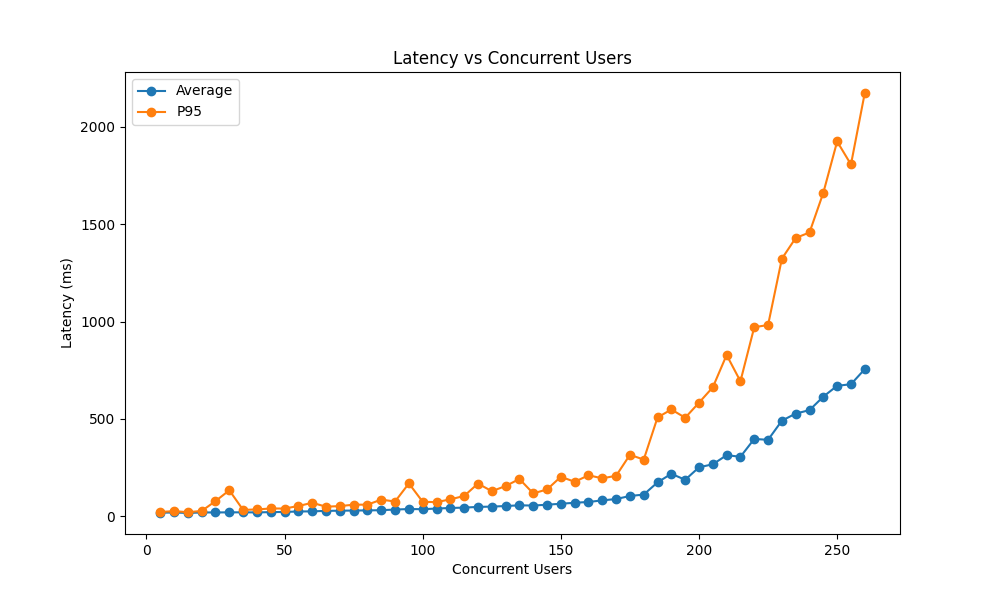
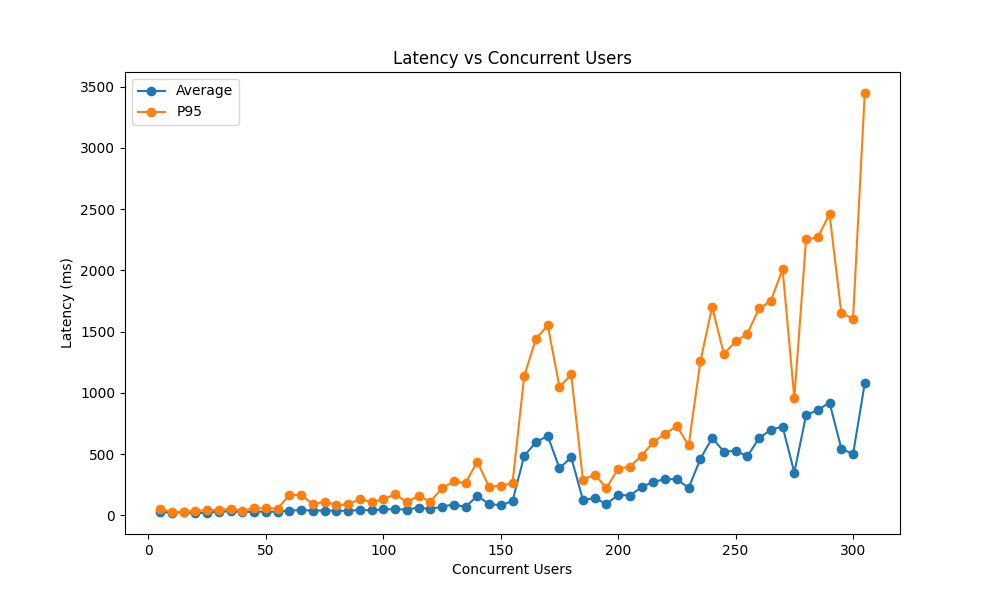
feat: add degradation check and Updated benchmark results

diff --git a/benchmark/load_test.py b/benchmark/load_test.py
@@ -30,6 +30,9 @@ class LoadTestConfig:
     request_timeout: int = 5
     think_time_min: float = 0.1
     think_time_max: float = 1.0
+    enable_degradation_check: bool = True
+    max_error_rate: float = 10.0  # Maximum acceptable error rate (%)
+    max_p95_latency: float = 2000.0  # Maximum acceptable P95 latency (ms)
 
 
 class EnhancedLoadTester:
@@ -168,10 +171,17 @@ class EnhancedLoadTester:
             # Print interim results
             self._print_step_results(step_metrics, num_users)
 
-            # Check for degradation
-            if step_metrics["error_rate"] > 10 or step_metrics["p95_latency"] > 2000:
-                print("\nPerformance degradation detected. Stopping test.")
-                break
+            # Check for degradation only if enabled
+            if self.config.enable_degradation_check:
+                if (step_metrics["error_rate"] > self.config.max_error_rate or
+                    step_metrics["p95_latency"] > self.config.max_p95_latency):
+                    print("\nPerformance degradation detected:")
+                    if step_metrics["error_rate"] > self.config.max_error_rate:
+                        print(f"- Error rate ({step_metrics['error_rate']:.2f}%) exceeded threshold of {self.config.max_error_rate}%")
+                    if step_metrics["p95_latency"] > self.config.max_p95_latency:
+                        print(f"- P95 latency ({step_metrics['p95_latency']:.2f}ms) exceeded threshold of {self.config.max_p95_latency}ms")
+                    print("Stopping test.")
+                    break
 
             # Cool down period
             await asyncio.sleep(5)

diff --git a/benchmark/main.py b/benchmark/main.py
@@ -17,7 +17,10 @@ async def main():
         step_duration=30,
         request_timeout=10,
         think_time_min=0.5,
-        think_time_max=2.0
+        think_time_max=2.0,
+        enable_degradation_check=True,
+        max_error_rate=15.0,
+        max_p95_latency=3000.0
     )
 
     print(f"Starting load test at {datetime.now()}")

diff --git a/benchmark_results/load_test_report.md b/benchmark_results/load_test_report.md
@@ -1,6 +1,6 @@
 # Load Test Report
 
-Test conducted at: 2024-11-24T15:40:30.748891
+Test conducted at: 2024-11-28T18:14:20.789151
 
 ## Test Configuration
 - initial_users: 5
@@ -12,119 +12,140 @@ Test conducted at: 2024-11-24T15:40:30.748891
 - request_timeout: 10
 - think_time_min: 0.5
 - think_time_max: 2.0
+- enable_degradation_check: True
+- max_error_rate: 15.0
+- max_p95_latency: 3000.0
 
 ## Summary Results
 ```
 +----+--------------------+------------------+----------------+--------------+---------------+---------------+---------------+--------------+
 |    |   concurrent_users |   total_requests |   success_rate |   error_rate |   avg_latency |   p50_latency |   p95_latency |   throughput |
 +====+====================+==================+================+==============+===============+===============+===============+==============+
-|  0 |               5.00 |           100.00 |         100.00 |         0.00 |         18.56 |         11.71 |         22.48 |         3.64 |
+|  0 |               5.00 |           100.00 |         100.00 |         0.00 |         29.13 |         15.73 |         54.25 |         3.69 |
 +----+--------------------+------------------+----------------+--------------+---------------+---------------+---------------+--------------+
-|  1 |              10.00 |           200.00 |         100.00 |         0.00 |         20.04 |         11.10 |         26.81 |         7.32 |
+|  1 |              10.00 |           200.00 |         100.00 |         0.00 |         21.35 |         15.58 |         28.89 |         7.02 |
 +----+--------------------+------------------+----------------+--------------+---------------+---------------+---------------+--------------+
-|  2 |              15.00 |           300.00 |         100.00 |         0.00 |         17.23 |         10.69 |         21.41 |        11.64 |
+|  2 |              15.00 |           300.00 |         100.00 |         0.00 |         27.24 |         14.81 |         28.36 |        11.16 |
 +----+--------------------+------------------+----------------+--------------+---------------+---------------+---------------+--------------+
-|  3 |              20.00 |           400.00 |         100.00 |         0.00 |         20.12 |         11.10 |         27.76 |        14.09 |
+|  3 |              20.00 |           400.00 |         100.00 |         0.00 |         19.75 |         13.95 |         38.59 |        14.47 |
 +----+--------------------+------------------+----------------+--------------+---------------+---------------+---------------+--------------+
-|  4 |              25.00 |           500.00 |         100.00 |         0.00 |         20.03 |         11.95 |         78.19 |        17.26 |
+|  4 |              25.00 |           500.00 |         100.00 |         0.00 |         21.65 |         14.88 |         41.86 |        18.08 |
 +----+--------------------+------------------+----------------+--------------+---------------+---------------+---------------+--------------+
-|  5 |              30.00 |           599.00 |         100.00 |         0.00 |         20.62 |         10.98 |        133.83 |        20.41 |
+|  5 |              30.00 |           600.00 |         100.00 |         0.00 |         30.36 |         14.62 |         46.33 |        20.92 |
 +----+--------------------+------------------+----------------+--------------+---------------+---------------+---------------+--------------+
-|  6 |              35.00 |           700.00 |         100.00 |         0.00 |         20.67 |         11.38 |         33.12 |        26.37 |
+|  6 |              35.00 |           700.00 |         100.00 |         0.00 |         33.02 |         17.32 |         53.00 |        23.36 |
 +----+--------------------+------------------+----------------+--------------+---------------+---------------+---------------+--------------+
-|  7 |              40.00 |           800.00 |         100.00 |         0.00 |         20.29 |         11.46 |         35.56 |        29.68 |
+|  7 |              40.00 |           800.00 |         100.00 |         0.00 |         26.86 |         15.74 |         39.67 |        27.78 |
 +----+--------------------+------------------+----------------+--------------+---------------+---------------+---------------+--------------+
-|  8 |              45.00 |           900.00 |         100.00 |         0.00 |         21.72 |         11.85 |         40.39 |        32.24 |
+|  8 |              45.00 |           900.00 |         100.00 |         0.00 |         31.43 |         17.12 |         57.46 |        30.30 |
 +----+--------------------+------------------+----------------+--------------+---------------+---------------+---------------+--------------+
-|  9 |              50.00 |          1000.00 |         100.00 |         0.00 |         22.60 |         11.96 |         40.19 |        34.79 |
+|  9 |              50.00 |          1000.00 |         100.00 |         0.00 |         30.43 |         16.58 |         58.06 |        35.65 |
 +----+--------------------+------------------+----------------+--------------+---------------+---------------+---------------+--------------+
-| 10 |              55.00 |          1100.00 |         100.00 |         0.00 |         25.10 |         12.31 |         53.07 |        38.55 |
+| 10 |              55.00 |          1100.00 |         100.00 |         0.00 |         29.12 |         17.04 |         55.51 |        38.95 |
 +----+--------------------+------------------+----------------+--------------+---------------+---------------+---------------+--------------+
-| 11 |              60.00 |          1200.00 |         100.00 |         0.00 |         25.55 |         12.59 |         69.50 |        44.17 |
+| 11 |              60.00 |          1200.00 |         100.00 |         0.00 |         39.95 |         19.48 |        166.40 |        41.74 |
 +----+--------------------+------------------+----------------+--------------+---------------+---------------+---------------+--------------+
-| 12 |              65.00 |          1300.00 |         100.00 |         0.00 |         28.27 |         12.77 |         49.76 |        45.54 |
+| 12 |              65.00 |          1300.00 |         100.00 |         0.00 |         43.27 |         23.68 |        166.16 |        46.36 |
 +----+--------------------+------------------+----------------+--------------+---------------+---------------+---------------+--------------+
-| 13 |              70.00 |          1400.00 |         100.00 |         0.00 |         28.92 |         13.41 |         52.63 |        50.49 |
+| 13 |              70.00 |          1400.00 |         100.00 |         0.00 |         39.33 |         22.12 |         93.21 |        48.00 |
 +----+--------------------+------------------+----------------+--------------+---------------+---------------+---------------+--------------+
-| 14 |              75.00 |          1500.00 |         100.00 |         0.00 |         29.93 |         14.00 |         59.97 |        52.20 |
+| 14 |              75.00 |          1500.00 |         100.00 |         0.00 |         39.84 |         22.31 |        111.66 |        53.05 |
 +----+--------------------+------------------+----------------+--------------+---------------+---------------+---------------+--------------+
-| 15 |              80.00 |          1600.00 |         100.00 |         0.00 |         30.53 |         14.51 |         60.07 |        55.45 |
+| 15 |              80.00 |          1600.00 |         100.00 |         0.00 |         39.73 |         22.26 |         83.69 |        56.85 |
 +----+--------------------+------------------+----------------+--------------+---------------+---------------+---------------+--------------+
-| 16 |              85.00 |          1700.00 |         100.00 |         0.00 |         31.67 |         15.07 |         85.82 |        59.75 |
+| 16 |              85.00 |          1700.00 |         100.00 |         0.00 |         36.64 |         19.86 |         89.69 |        57.99 |
 +----+--------------------+------------------+----------------+--------------+---------------+---------------+---------------+--------------+
-| 17 |              90.00 |          1800.00 |         100.00 |         0.00 |         34.93 |         16.05 |         76.20 |        61.73 |
+| 17 |              90.00 |          1800.00 |         100.00 |         0.00 |         44.39 |         24.72 |        134.29 |        61.72 |
 +----+--------------------+------------------+----------------+--------------+---------------+---------------+---------------+--------------+
-| 18 |              95.00 |          1900.00 |         100.00 |         0.00 |         37.63 |         16.04 |        169.08 |        64.32 |
+| 18 |              95.00 |          1900.00 |         100.00 |         0.00 |         41.23 |         22.22 |        108.58 |        64.62 |
 +----+--------------------+------------------+----------------+--------------+---------------+---------------+---------------+--------------+
-| 19 |             100.00 |          2000.00 |         100.00 |         0.00 |         36.76 |         17.32 |         74.75 |        67.39 |
+| 19 |             100.00 |          1999.00 |         100.00 |         0.00 |         49.62 |         27.36 |        131.99 |        67.53 |
 +----+--------------------+------------------+----------------+--------------+---------------+---------------+---------------+--------------+
-| 20 |             105.00 |          2100.00 |         100.00 |         0.00 |         40.10 |         17.95 |         72.94 |        72.87 |
+| 20 |             105.00 |          2100.00 |         100.00 |         0.00 |         50.78 |         27.35 |        172.54 |        71.19 |
 +----+--------------------+------------------+----------------+--------------+---------------+---------------+---------------+--------------+
-| 21 |             110.00 |          2200.00 |         100.00 |         0.00 |         42.99 |         19.78 |         87.38 |        74.32 |
+| 21 |             110.00 |          2198.00 |         100.00 |         0.00 |         47.24 |         24.85 |        109.87 |        73.60 |
 +----+--------------------+------------------+----------------+--------------+---------------+---------------+---------------+--------------+
-| 22 |             115.00 |          2300.00 |         100.00 |         0.00 |         44.94 |         19.87 |        104.66 |        77.06 |
+| 22 |             115.00 |          2299.00 |         100.00 |         0.00 |         64.10 |         31.66 |        159.37 |        79.57 |
 +----+--------------------+------------------+----------------+--------------+---------------+---------------+---------------+--------------+
-| 23 |             120.00 |          2400.00 |         100.00 |         0.00 |         48.48 |         21.00 |        168.17 |        85.56 |
+| 23 |             120.00 |          2400.00 |         100.00 |         0.00 |         51.73 |         28.66 |        113.46 |        81.46 |
 +----+--------------------+------------------+----------------+--------------+---------------+---------------+---------------+--------------+
-| 24 |             125.00 |          2500.00 |         100.00 |         0.00 |         50.10 |         22.09 |        129.39 |        86.95 |
+| 24 |             125.00 |          2499.00 |         100.00 |         0.00 |         72.48 |         37.72 |        221.42 |        84.47 |
 +----+--------------------+------------------+----------------+--------------+---------------+---------------+---------------+--------------+
-| 25 |             130.00 |          2600.00 |         100.00 |         0.00 |         53.01 |         23.51 |        155.43 |        86.81 |
+| 25 |             130.00 |          2600.00 |         100.00 |         0.00 |         89.00 |         47.79 |        278.07 |        89.62 |
 +----+--------------------+------------------+----------------+--------------+---------------+---------------+---------------+--------------+
-| 26 |             135.00 |          2699.00 |         100.00 |         0.00 |         56.72 |         25.35 |        191.94 |        91.05 |
+| 26 |             135.00 |          2698.00 |         100.00 |         0.00 |         70.06 |         34.62 |        265.38 |        91.84 |
 +----+--------------------+------------------+----------------+--------------+---------------+---------------+---------------+--------------+
-| 27 |             140.00 |          2800.00 |         100.00 |         0.00 |         55.48 |         29.00 |        117.86 |        94.76 |
+| 27 |             140.00 |          2797.00 |         100.00 |         0.00 |        159.18 |        114.67 |        437.28 |        93.33 |
 +----+--------------------+------------------+----------------+--------------+---------------+---------------+---------------+--------------+
-| 28 |             145.00 |          2900.00 |         100.00 |         0.00 |         59.86 |         30.60 |        138.13 |        98.25 |
+| 28 |             145.00 |          2897.00 |         100.00 |         0.00 |         93.62 |         57.74 |        234.97 |        97.16 |
 +----+--------------------+------------------+----------------+--------------+---------------+---------------+---------------+--------------+
-| 29 |             150.00 |          3000.00 |         100.00 |         0.00 |         64.78 |         31.11 |        203.20 |       100.31 |
+| 29 |             150.00 |          3000.00 |         100.00 |         0.00 |         82.60 |         48.61 |        240.27 |       103.21 |
 +----+--------------------+------------------+----------------+--------------+---------------+---------------+---------------+--------------+
-| 30 |             155.00 |          3100.00 |         100.00 |         0.00 |         69.75 |         34.47 |        177.43 |       103.33 |
+| 30 |             155.00 |          3097.00 |         100.00 |         0.00 |        117.19 |         87.42 |        263.79 |       104.24 |
 +----+--------------------+------------------+----------------+--------------+---------------+---------------+---------------+--------------+
-| 31 |             160.00 |          3200.00 |         100.00 |         0.00 |         73.92 |         39.61 |        210.74 |       109.33 |
+| 31 |             160.00 |          2816.00 |         100.00 |         0.00 |        485.97 |        386.61 |       1137.51 |        93.36 |
 +----+--------------------+------------------+----------------+--------------+---------------+---------------+---------------+--------------+
-| 32 |             165.00 |          3299.00 |         100.00 |         0.00 |         82.01 |         44.42 |        195.39 |       110.64 |
+| 32 |             165.00 |          2755.00 |         100.00 |         0.00 |        598.51 |        500.36 |       1442.30 |        89.75 |
 +----+--------------------+------------------+----------------+--------------+---------------+---------------+---------------+--------------+
-| 33 |             170.00 |          3400.00 |         100.00 |         0.00 |         89.03 |         48.23 |        208.19 |       114.53 |
+| 33 |             170.00 |          2776.00 |         100.00 |         0.00 |        648.18 |        536.61 |       1550.48 |        90.98 |
 +----+--------------------+------------------+----------------+--------------+---------------+---------------+---------------+--------------+
-| 34 |             175.00 |          3499.00 |         100.00 |         0.00 |        104.53 |         64.05 |        316.01 |       116.85 |
+| 34 |             175.00 |          3289.00 |         100.00 |         0.00 |        384.52 |        324.61 |       1048.55 |       109.12 |
 +----+--------------------+------------------+----------------+--------------+---------------+---------------+---------------+--------------+
-| 35 |             180.00 |          3600.00 |         100.00 |         0.00 |        111.91 |         72.73 |        291.56 |       120.86 |
+| 35 |             180.00 |          3226.00 |         100.00 |         0.00 |        474.37 |        379.89 |       1150.32 |       106.23 |
 +----+--------------------+------------------+----------------+--------------+---------------+---------------+---------------+--------------+
-| 36 |             185.00 |          3687.00 |         100.00 |         0.00 |        174.55 |        135.07 |        507.97 |       122.82 |
+| 36 |             185.00 |          3696.00 |         100.00 |         0.00 |        126.37 |         99.68 |        289.16 |       123.45 |
 +----+--------------------+------------------+----------------+--------------+---------------+---------------+---------------+--------------+
-| 37 |             190.00 |          3761.00 |         100.00 |         0.00 |        218.65 |        190.19 |        548.64 |       125.42 |
+| 37 |             190.00 |          3798.00 |         100.00 |         0.00 |        141.49 |        123.82 |        333.45 |       127.24 |
 +----+--------------------+------------------+----------------+--------------+---------------+---------------+---------------+--------------+
-| 38 |             195.00 |          3878.00 |         100.00 |         0.00 |        187.56 |        160.79 |        506.31 |       129.63 |
+| 38 |             195.00 |          3898.00 |         100.00 |         0.00 |         93.41 |         61.69 |        223.99 |       132.48 |
 +----+--------------------+------------------+----------------+--------------+---------------+---------------+---------------+--------------+
-| 39 |             200.00 |          3941.00 |         100.00 |         0.00 |        251.95 |        210.82 |        583.57 |       131.32 |
+| 39 |             200.00 |          3989.00 |         100.00 |         0.00 |        167.54 |        154.53 |        381.60 |       132.92 |
 +----+--------------------+------------------+----------------+--------------+---------------+---------------+---------------+--------------+
-| 40 |             205.00 |          4011.00 |         100.00 |         0.00 |        267.27 |        213.38 |        662.74 |       133.68 |
+| 40 |             205.00 |          4089.00 |         100.00 |         0.00 |        162.33 |        149.91 |        398.69 |       136.45 |
 +----+--------------------+------------------+----------------+--------------+---------------+---------------+---------------+--------------+
-| 41 |             210.00 |          4068.00 |         100.00 |         0.00 |        314.06 |        234.35 |        828.39 |       135.58 |
+| 41 |             210.00 |          4159.00 |         100.00 |         0.00 |        230.53 |        194.03 |        487.95 |       138.86 |
 +----+--------------------+------------------+----------------+--------------+---------------+---------------+---------------+--------------+
-| 42 |             215.00 |          4150.00 |         100.00 |         0.00 |        305.95 |        236.27 |        693.53 |       138.19 |
+| 42 |             215.00 |          4220.00 |         100.00 |         0.00 |        275.56 |        222.03 |        599.52 |       140.59 |
 +----+--------------------+------------------+----------------+--------------+---------------+---------------+---------------+--------------+
-| 43 |             220.00 |          4127.00 |         100.00 |         0.00 |        397.48 |        297.55 |        971.24 |       136.72 |
+| 43 |             220.00 |          4269.00 |         100.00 |         0.00 |        294.59 |        237.23 |        666.65 |       142.26 |
 +----+--------------------+------------------+----------------+--------------+---------------+---------------+---------------+--------------+
-| 44 |             225.00 |          4172.00 |         100.00 |         0.00 |        392.93 |        299.96 |        982.31 |       138.65 |
+| 44 |             225.00 |          4352.00 |         100.00 |         0.00 |        296.53 |        217.73 |        729.56 |       144.96 |
 +----+--------------------+------------------+----------------+--------------+---------------+---------------+---------------+--------------+
-| 45 |             230.00 |          4086.00 |         100.00 |         0.00 |        491.19 |        376.01 |       1322.88 |       134.98 |
+| 45 |             230.00 |          4564.00 |         100.00 |         0.00 |        223.19 |        173.48 |        570.58 |       152.36 |
 +----+--------------------+------------------+----------------+--------------+---------------+---------------+---------------+--------------+
-| 46 |             235.00 |          4067.00 |         100.00 |         0.00 |        527.70 |        427.04 |       1429.27 |       134.11 |
+| 46 |             235.00 |          4223.00 |         100.00 |         0.00 |        461.89 |        364.49 |       1256.08 |       138.51 |
 +----+--------------------+------------------+----------------+--------------+---------------+---------------+---------------+--------------+
-| 47 |             240.00 |          4130.00 |         100.00 |         0.00 |        545.38 |        448.28 |       1457.43 |       135.96 |
+| 47 |             240.00 |          3955.00 |         100.00 |         0.00 |        632.11 |        555.06 |       1702.52 |       129.98 |
 +----+--------------------+------------------+----------------+--------------+---------------+---------------+---------------+--------------+
-| 48 |             245.00 |          4071.00 |         100.00 |         0.00 |        614.71 |        512.05 |       1661.36 |       133.53 |
+| 48 |             245.00 |          4265.00 |         100.00 |         0.00 |        521.14 |        468.60 |       1317.70 |       140.56 |
 +----+--------------------+------------------+----------------+--------------+---------------+---------------+---------------+--------------+
-| 49 |             250.00 |          4023.00 |         100.00 |         0.00 |        670.23 |        539.89 |       1924.60 |       132.12 |
+| 49 |             250.00 |          4344.00 |         100.00 |         0.00 |        527.06 |        450.81 |       1419.65 |       144.16 |
 +----+--------------------+------------------+----------------+--------------+---------------+---------------+---------------+--------------+
-| 50 |             255.00 |          4107.00 |         100.00 |         0.00 |        678.35 |        595.54 |       1806.61 |       134.58 |
+| 50 |             255.00 |          4513.00 |         100.00 |         0.00 |        482.70 |        251.71 |       1482.68 |       149.04 |
 +----+--------------------+------------------+----------------+--------------+---------------+---------------+---------------+--------------+
-| 51 |             260.00 |          4015.00 |         100.00 |         0.00 |        755.75 |        663.10 |       2173.53 |       131.67 |
+| 51 |             260.00 |          4303.00 |         100.00 |         0.00 |        630.01 |        564.88 |       1688.91 |       142.05 |
++----+--------------------+------------------+----------------+--------------+---------------+---------------+---------------+--------------+
+| 52 |             265.00 |          4220.00 |         100.00 |         0.00 |        699.22 |        654.73 |       1749.66 |       138.46 |
++----+--------------------+------------------+----------------+--------------+---------------+---------------+---------------+--------------+
+| 53 |             270.00 |          4216.00 |         100.00 |         0.00 |        725.25 |        659.89 |       2010.47 |       137.57 |
++----+--------------------+------------------+----------------+--------------+---------------+---------------+---------------+--------------+
+| 54 |             275.00 |          5223.00 |         100.00 |         0.00 |        349.83 |        249.95 |        958.48 |       173.23 |
++----+--------------------+------------------+----------------+--------------+---------------+---------------+---------------+--------------+
+| 55 |             280.00 |          4196.00 |         100.00 |         0.00 |        818.25 |        754.29 |       2251.60 |       136.77 |
++----+--------------------+------------------+----------------+--------------+---------------+---------------+---------------+--------------+
+| 56 |             285.00 |          4183.00 |         100.00 |         0.00 |        859.66 |        802.21 |       2269.38 |       136.10 |
++----+--------------------+------------------+----------------+--------------+---------------+---------------+---------------+--------------+
+| 57 |             290.00 |          4161.00 |         100.00 |         0.00 |        920.76 |        869.89 |       2459.57 |       135.17 |
++----+--------------------+------------------+----------------+--------------+---------------+---------------+---------------+--------------+
+| 58 |             295.00 |          5060.00 |         100.00 |         0.00 |        546.06 |        266.30 |       1652.21 |       165.68 |
++----+--------------------+------------------+----------------+--------------+---------------+---------------+---------------+--------------+
+| 59 |             300.00 |          5259.00 |         100.00 |         0.00 |        498.88 |        240.53 |       1606.23 |       172.41 |
++----+--------------------+------------------+----------------+--------------+---------------+---------------+---------------+--------------+
+| 60 |             305.00 |          4078.00 |         100.00 |         0.00 |       1079.07 |        982.63 |       3446.99 |       131.93 |
 +----+--------------------+------------------+----------------+--------------+---------------+---------------+---------------+--------------+
 ```
 
 ## Performance Metrics
-- Maximum throughput: 138.65 requests/second
-- Optimal concurrent users: 225
+- Maximum throughput: 173.23 requests/second
+- Optimal concurrent users: 275
 - Lowest error rate: 0.00%
